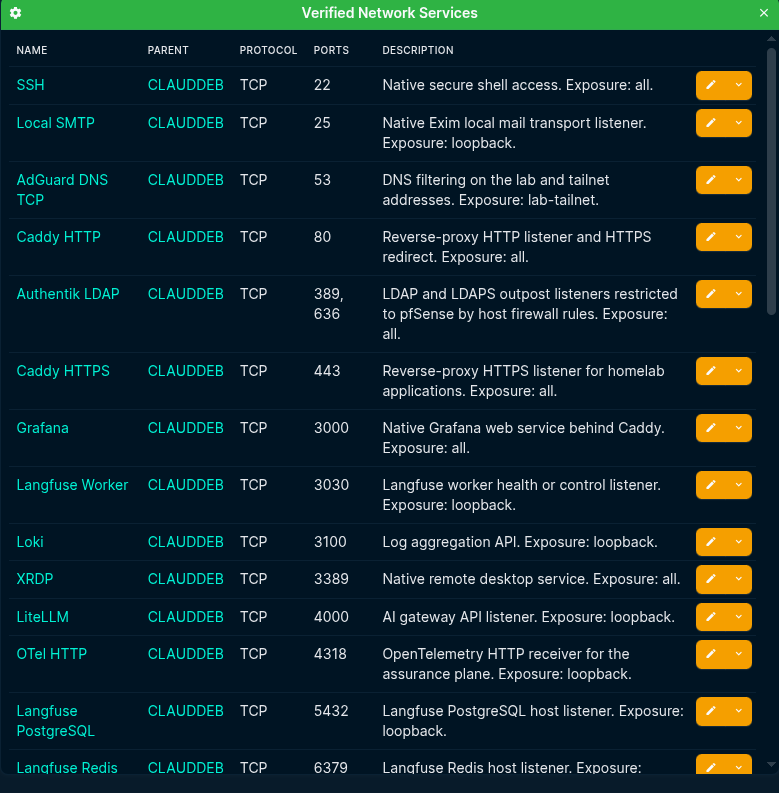
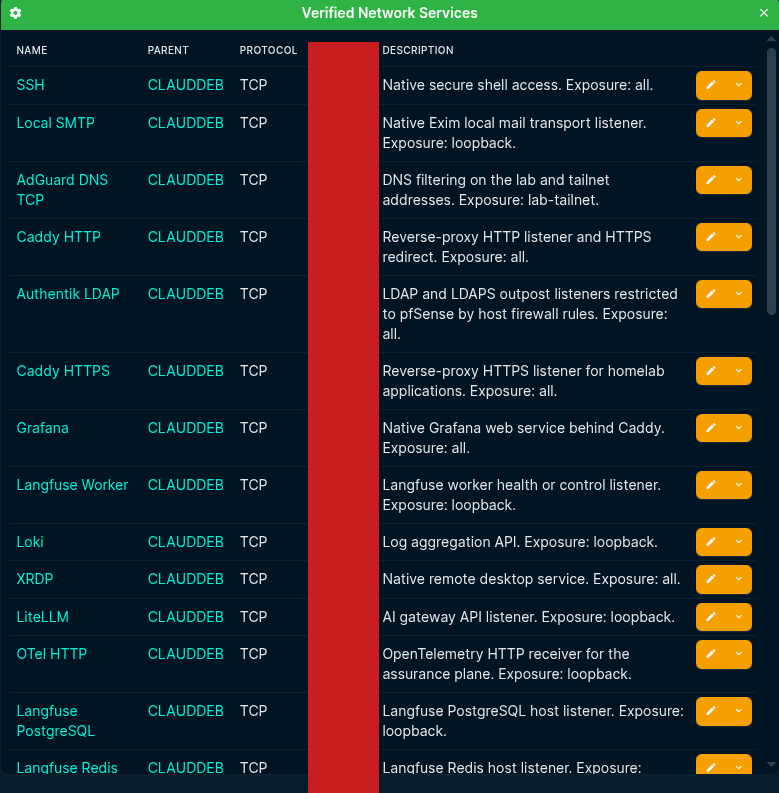
Redact ports in the NetBox screenshot, and update the standing pages
The inventory screenshot had its PORTS column redacted at Billal's request —
not because the ports are sensitive, but as a habit worth keeping. Header and
all rows covered; nothing else obscured.

The previous commit updated the derived counts but missed five standing pages
that blog/CLAUDE.md requires after a real lab change. That file exists because
this drift has happened before, so:

- uses.md: seven log sources -> eight; 36 detection rules -> 53 (24 LogQL,
  29 PromQL); the textfile exporter list now includes certificate expiry and
  detection headroom; NetBox is noted as the intended-state source of truth;
  network-twin added as its own row
- incidents.yaml: the port-18080 blind spot, recorded as OPEN. A validation
  test detected nothing because the scan covers only nmap's top 200 ports, and
  68 passing tests could not have caught it since they all mock the scan
- projects.yaml, now.md: the twin, the blind spot, and the near-miss detection
  work that came out of noticing the analyst dashboard looked empty

Every figure here is derived from live config, not edited by hand.

Claude-Session: https://claude.ai/code/session_01TDT1hNnSkfWfEJRk7PRyHB

Changed region(s): [[0.3697, 0.0303, 0.4929, 1.0]]

diff --git a/content/uses.md b/content/uses.md
@@ -71,13 +71,14 @@ published ports:
 | Identity | Authentik (plus LDAP and RADIUS outposts) |
 | Secrets | Vaultwarden |
 | DNS filtering | AdGuard Home |
-| Metrics | Prometheus + Grafana (native), node_exporter, snmp_exporter, plus textfile exporters for clock skew and container counts |
-| Logs / SIEM | Loki + Promtail — seven sources: firewall, host auth, syslog, reverse-proxy access, identity events, container stdout, agent audit |
-| Detection | 36 rules — 18 LogQL on the Loki ruler, 18 PromQL on Prometheus |
+| Metrics | Prometheus + Grafana (native), node_exporter, snmp_exporter, plus textfile exporters for clock skew, container counts, certificate expiry and detection headroom |
+| Logs / SIEM | Loki + Promtail — eight sources: firewall, host auth, syslog, reverse-proxy access, identity events, container stdout, agent audit, network drift |
+| Detection | 53 rules — 24 LogQL on the Loki ruler, 29 PromQL on Prometheus |
 | AI triage | Kimi as a read-only SOC analyst — bounded, sanitised evidence in; severity, confidence and recommendations out; no tools, so it cannot act |
 | Alerting | Alertmanager → ntfy, routed by severity |
 | Vulnerability scanning | Grype + Trivy + nmap (replaced Greenbone/OpenVAS, Aug 2026) |
-| DCIM / IPAM | NetBox |
+| DCIM / IPAM | NetBox — also the intended-state source of truth for the network digital twin |
+| Network baseline | network-twin — compares NetBox against a bounded nmap observation; read-only token, so it cannot write back to the inventory |
 | Agent orchestration | Homelab Council (local, Python) — terminal UI plus a web dashboard behind SSO |
 | Agent auditing | agent-auditor — hash-chained evidence ledger |
 | Automation | n8n |

diff --git a/content/now.md b/content/now.md
@@ -1,7 +1,7 @@
 ---
 title: "Now"
 date: 2026-07-01T00:00:00+10:00
-updated: "2026-09-08"
+updated: "2026-09-10"
 layout: now
 draft: false
 description: "What I'm up to right now — studies, projects, games, and learning."
@@ -41,6 +41,9 @@ sections:
       - "Proved a brute-force rule that had matched nothing in 30 days actually fires, by generating the failed logins myself"
       - "Found my own access-log redaction had a hole on the response side, after it had already written session tokens to disk"
       - "Planning a Raspberry Pi as a filter proxy + ad blocker on the home network"
+      - "Built a network digital twin: NetBox holds what should be listening, a bounded nmap scan holds what actually answers, and neither source is allowed to update the other"
+      - "Found the scan had a blind spot in the middle of its own purpose — a test service on an uncommon port was never detected, because the scan only covers nmap's top 200"
+      - "Added near-miss detection after noticing the analyst dashboard looked empty: rules that sit at 80% of their threshold now show up instead of leaving no trace at all"
   - title: "Learning"
     icon: "📚"
     items:
